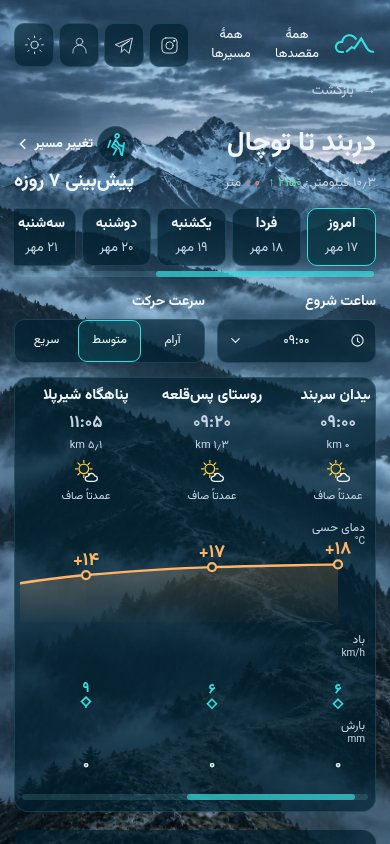
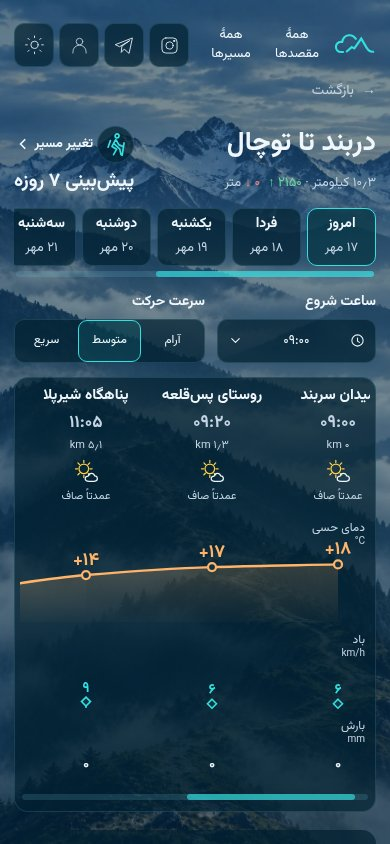
fix(web): grade route night background from unchanged light scenery

diff --git a/apps/web/src/styles/new-design/landscape.css b/apps/web/src/styles/new-design/landscape.css
@@ -12,10 +12,11 @@ main.route-page {
   --landscape-photo: url('/new-design/backgrounds/desktop-dark.webp');
 }
 :root[data-theme="dark"] main.route-page {
-  --landscape-photo: url('/new-design/backgrounds/route-desktop-dark.webp');
-  /* The route source is darker and bluer than the destination source.
-     Balance the photo alone; shared cards and foreground colors stay intact. */
-  --landscape-tone: saturate(.5) hue-rotate(-5deg) brightness(1.6);
+  /* Keep the exact light-theme scenery and framing. Channel curves grade its
+     highlights and shadows to the destination dark palette, not the old blue
+     route image. No extra raster download is needed when toggling themes. */
+  --landscape-photo: url('/new-design/backgrounds/route-desktop-light.webp');
+  --landscape-tone: url('#route-night-desktop');
 }
 .landscape {
   position: fixed;
@@ -33,9 +34,31 @@ main.route-page {
   mask-image: none;
   filter: var(--landscape-tone);
 }
+/* Apply the shared dark overlay after grading. Filtering the overlay together
+   with the photo would darken the result again through the gamma curves. */
+:root[data-theme="dark"] main.route-page .landscape {
+  background-image: none;
+  filter: none;
+}
+:root[data-theme="dark"] main.route-page .landscape::before,
+:root[data-theme="dark"] main.route-page .landscape::after {
+  content: "";
+  position: absolute;
+  inset: 0;
+}
+:root[data-theme="dark"] main.route-page .landscape::before {
+  background: var(--landscape-photo) center top / cover no-repeat;
+  filter: var(--landscape-tone);
+}
+:root[data-theme="dark"] main.route-page .landscape::after {
+  background: var(--overlay);
+}
 @media (max-width: 767px) {
   main { --landscape-photo: url('/new-design/backgrounds/mobile-light.webp'); }
   main.route-page { --landscape-photo: url('/new-design/backgrounds/route-mobile-light.webp'); }
   :root[data-theme="dark"] main { --landscape-photo: url('/new-design/backgrounds/mobile-dark.webp'); }
-  :root[data-theme="dark"] main.route-page { --landscape-photo: url('/new-design/backgrounds/route-mobile-dark.webp'); }
+  :root[data-theme="dark"] main.route-page {
+    --landscape-photo: url('/new-design/backgrounds/route-mobile-light.webp');
+    --landscape-tone: url('#route-night-mobile');
+  }
 }

diff --git a/apps/web/src/components/PageShell.tsx b/apps/web/src/components/PageShell.tsx
@@ -18,6 +18,27 @@ export function PageShell({
   const initialContent = showInitialContent ? initialSeoContentFor(location.pathname, location.search) : null;
   return (
     <main className={className}>
+      {/* Grade the original light route photo without moving or regenerating
+          any scenery. Curves match the destination's dark photo separately
+          for its desktop and mobile compositions. Only .landscape uses them. */}
+      <svg width="0" height="0" aria-hidden="true" focusable="false" style={{ position: "absolute", pointerEvents: "none" }}>
+        <defs>
+          <filter id="route-night-desktop" x="0" y="0" width="100%" height="100%" colorInterpolationFilters="sRGB">
+            <feComponentTransfer>
+              <feFuncR type="gamma" amplitude="0.5152" exponent="2.01" offset="0.0014" />
+              <feFuncG type="gamma" amplitude="0.4622" exponent="2.58" offset="0.1378" />
+              <feFuncB type="gamma" amplitude="0.4754" exponent="4" offset="0.2391" />
+            </feComponentTransfer>
+          </filter>
+          <filter id="route-night-mobile" x="0" y="0" width="100%" height="100%" colorInterpolationFilters="sRGB">
+            <feComponentTransfer>
+              <feFuncR type="gamma" amplitude="0.5109" exponent="2.28" offset="0.0095" />
+              <feFuncG type="gamma" amplitude="0.5205" exponent="2.4" offset="0.1123" />
+              <feFuncB type="gamma" amplitude="0.4980" exponent="2.61" offset="0.1995" />
+            </feComponentTransfer>
+          </filter>
+        </defs>
+      </svg>
       <div className="landscape" aria-hidden="true" />
       <div className="shell">
         <Header />

diff --git a/design/system/design-system.md b/design/system/design-system.md
@@ -9,8 +9,8 @@
 - فارسی و RTL؛ فونت فعلی و تأییدشدهٔ سایت Vazirmatn Regular/Bold است. Estedad/OFL موجود حفظ میشوند و تعویض فونت مجاز نیست.
 - متن، برند، هشدار، مرز، انتخاب و سطح از `apps/web/src/styles/new-design/base.css` میآیند. کارت روشن `rgba(247,253,254,.72)` و تاریک `rgba(2,33,49,.70)` است؛ کارت اصلی blur ندارد. منو و dialog نقش جدا دارند و قواعد قبلیشان حفظ میشود.
 - پوشش عکس روشن `rgba(232,242,245,.05)` و تاریک `rgba(1,21,37,.10)` است. تصویر مسیر و فهرست مسیرها در هر دو تم متفاوت است؛ خانوادهٔ دیگر برای خانه، مقصد، فهرست مقصدها و اشتراک مشترک است.
-- `landscape.css` تنها مرجع عکس، تناژ و برش است: یک لایهٔ ثابت بهاندازهٔ viewport، `cover` و `center top`. عکس متناسب با viewport بزرگ میشود، نه ارتفاع محتوا؛ با جزئیات تخصصی، تجهیزات یا فهرست بلند قطع، تکرار یا کشیده نمیشود. تناژ خانوادهٔ مسیر فقط با CSS هماهنگ میشود؛ bytes تصاویر اصلی دستنخوردهاند.
-- در صفحهٔ مسیر، عکس تاریک با `saturate(.5) hue-rotate(-5deg) brightness(1.6)` نمایش داده میشود تا آبیِ شدید و تیرگی فایل اصلی به تناژ مقصد نزدیک شود؛ این تنظیم در موبایل و دسکتاپ فقط روی لایهٔ عکس اعمال میشود. تم روشن، کارتها و رنگ نوشتهها تغییر نمیکنند.
+- `landscape.css` مرجع مشترک انتخاب عکس، فیلتر و برش است: یک لایهٔ ثابت بهاندازهٔ viewport، `cover` و `center top`. عکس متناسب با viewport بزرگ میشود، نه ارتفاع محتوا؛ با جزئیات تخصصی، تجهیزات یا فهرست بلند قطع، تکرار یا کشیده نمیشود. تناژ مسیر با فیلتر رنگ روی لایهٔ عکس هماهنگ میشود؛ bytes تصاویر اصلی دستنخوردهاند.
+- صفحهٔ مسیر در هر دو تم از همان فایل روشنِ مخصوص مسیر استفاده میکند؛ منظره و قاب هنگام تغییر تم دقیقاً ثابتاند. تم تاریک با منحنی مستقل هر کانال رنگ در فیلترهای SVGِ `PageShell.tsx` ساخته میشود؛ منحنیها از توزیع روشنایی عکس روشن مسیر و عکس تاریک مقصد، در صدکهای ۵ تا ۹۵، برای موبایل و دسکتاپ جداگانه تنظیم شدهاند. فیلتر فقط روی لایهٔ عکسِ `.landscape::before` است و پوشش مشترک تاریک پس از تبدیل رنگ روی آن قرار میگیرد؛ کارتها و نوشتهها تغییر نمیکنند. نسخههای اصلی تاریک مسیر حفظ میشوند ولی در این صفحه مصرف نمیشوند. تغییر تم دانلود عکس دیگری نیاز ندارد.
 - کارت اصلی ۱۴px و کنترل ۱۰px radius دارد. فونت، اندازه، وزن، عرض هدر اختصاصی مسیر، زمان رسیدن و چیدمانهای تأییدشده تغییر نمیکنند.
 - `shared.css` نقشهای مشترک و `features/week/agreed.css` اندازهها و چیدمان تأییدشدهٔ هفته را نگه میدارند. پیشبینی نباید `--panel` یا پوشش عکس مستقل تعریف کند.
 - ارتفاع ردیف نام و وضعیت هوای نقاط مسیر متناسب با بلندترین محتواست و شرح وضعیت هوا در ستونها همتراز میشود؛ فاصله تا ردیف دمای حسی در موبایل ۱۲px و دسکتاپ ۱۶px است. نام یا شرح طولانی نباید با نمودار تداخل پیدا کند.
